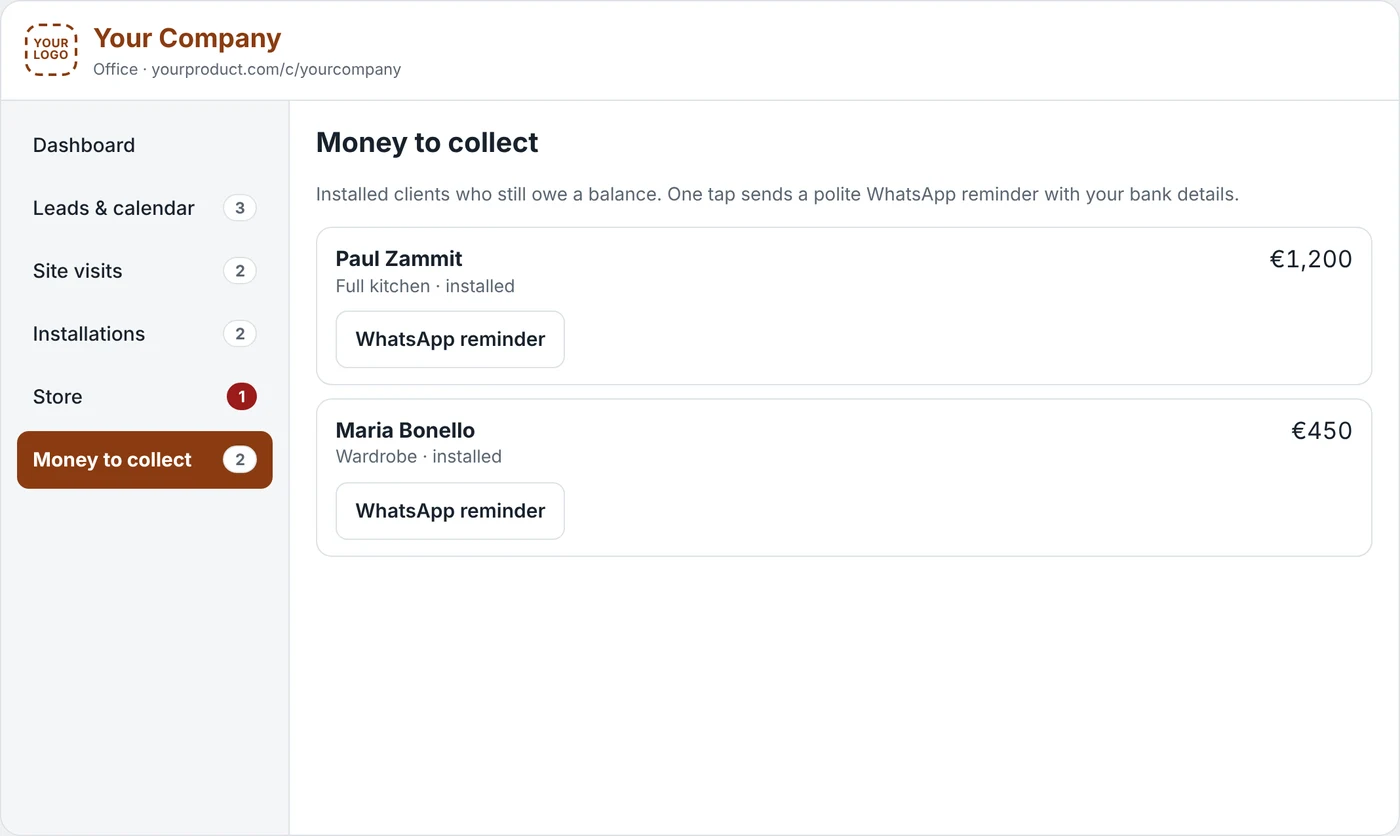
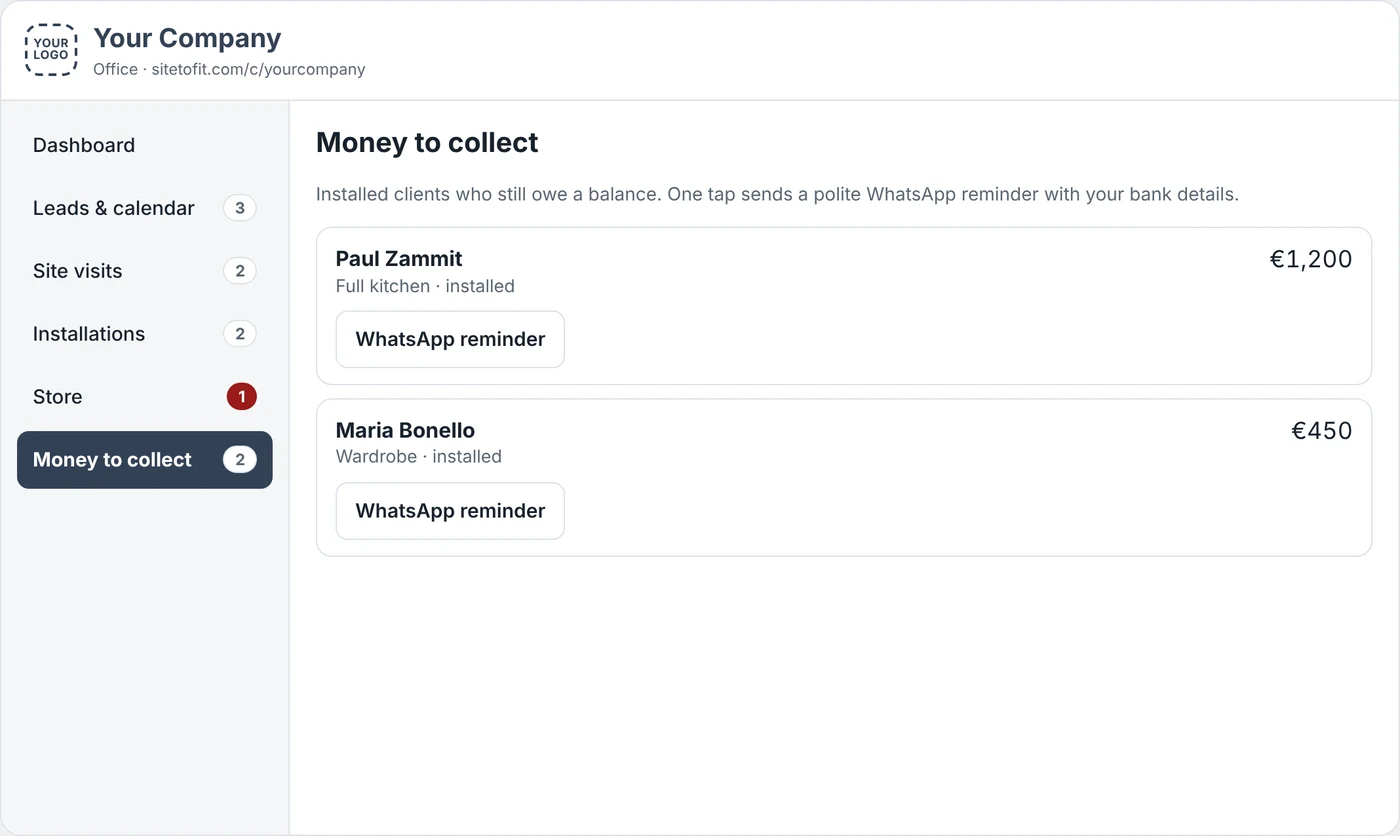
Neutral sample company in demo and fresh screenshots
Claude-Session: https://claude.ai/code/session_01JcV7sPjTG4QZocWhhcKJbA

Changed region(s): [[0.0, 0.4976, 0.215, 0.5909], [0.0, 0.0311, 0.2764, 0.0933]]

diff --git a/demo/index.html b/demo/index.html
@@ -7,18 +7,18 @@
 /* Layout: a demo frame (guide + view switch) around the sample company's app; office view = menu + screen, phone view = one 390px phone. */
 :root{
   --bg:#eef0f2; --panel:#ffffff; --ink:#18212b; --muted:#5b6672; --line:#dde2e7; --soft:#f5f6f8;
-  --brand:#8a3b12; --brand-ink:#ffffff; --brand-soft:#fbeee6;
-  --guide:#1f3a5f; --guide-soft:#e6edf6;
+  --brand:#334155; --brand-ink:#ffffff; --brand-soft:#eef1f5;
+  --guide:#3a17c4; --guide-soft:#ece8ff;
   --ok:#166534; --ok-soft:#dcfce7; --warn:#9a3412; --warn-soft:#ffedd5; --info:#1e40af; --info-soft:#dbeafe; --bad:#991b1b; --bad-soft:#fee2e2;
   --display:"Archivo", "Helvetica Neue", Arial, sans-serif; --body:"Public Sans", system-ui, -apple-system, "Segoe UI", sans-serif;
 }
 @media (prefers-color-scheme: dark){:root:not([data-theme="light"]){
   --bg:#12161b; --panel:#1b2128; --ink:#e7ebef; --muted:#9aa5b1; --line:#2c343d; --soft:#222a32;
-  --brand:#d9824f; --brand-ink:#1a0f08; --brand-soft:#3a2418; --guide:#8fb3e0; --guide-soft:#1d2a3a;
+  --brand:#a8b4c4; --brand-ink:#0f141a; --brand-soft:#262e38; --guide:#b8a6ff; --guide-soft:#2a2050;
   --ok:#86efac; --ok-soft:#14321f; --warn:#fdba74; --warn-soft:#3a2312; --info:#93c5fd; --info-soft:#172a45; --bad:#fca5a5; --bad-soft:#3b1717; color-scheme:dark}}
 :root[data-theme="dark"]{
   --bg:#12161b; --panel:#1b2128; --ink:#e7ebef; --muted:#9aa5b1; --line:#2c343d; --soft:#222a32;
-  --brand:#d9824f; --brand-ink:#1a0f08; --brand-soft:#3a2418; --guide:#8fb3e0; --guide-soft:#1d2a3a;
+  --brand:#a8b4c4; --brand-ink:#0f141a; --brand-soft:#262e38; --guide:#b8a6ff; --guide-soft:#2a2050;
   --ok:#86efac; --ok-soft:#14321f; --warn:#fdba74; --warn-soft:#3a2312; --info:#93c5fd; --info-soft:#172a45; --bad:#fca5a5; --bad-soft:#3b1717; color-scheme:dark}
 *{box-sizing:border-box}
 body{background:var(--bg);color:var(--ink);font-family:var(--body);font-size:15px;line-height:1.45}

diff --git a/index.html b/index.html
@@ -233,7 +233,7 @@ footer b{color:var(--on-navy);font-family:var(--display)}
             <p>One tap creates the job. Pick the team, the date and the materials, and choose the items it needs from your store.</p>
             <ul class="ticks"><li>See how many of each item are available as you choose</li><li>Store items are kept aside for this job the moment it's created</li><li>The job appears on the installations calendar and the team's phone</li></ul>
           </div>
-          <div class="svc-pic"><div class="panel"><img src="img/newjob.webp" alt="New job form with team, date, materials and items from the store" width="640" height="775"></div></div>
+          <div class="svc-pic"><div class="panel"><img src="img/newjob.webp" alt="New job form with team, date, materials and items from the store" width="640" height="1027"></div></div>
         </article>
 
         <article class="svc">
